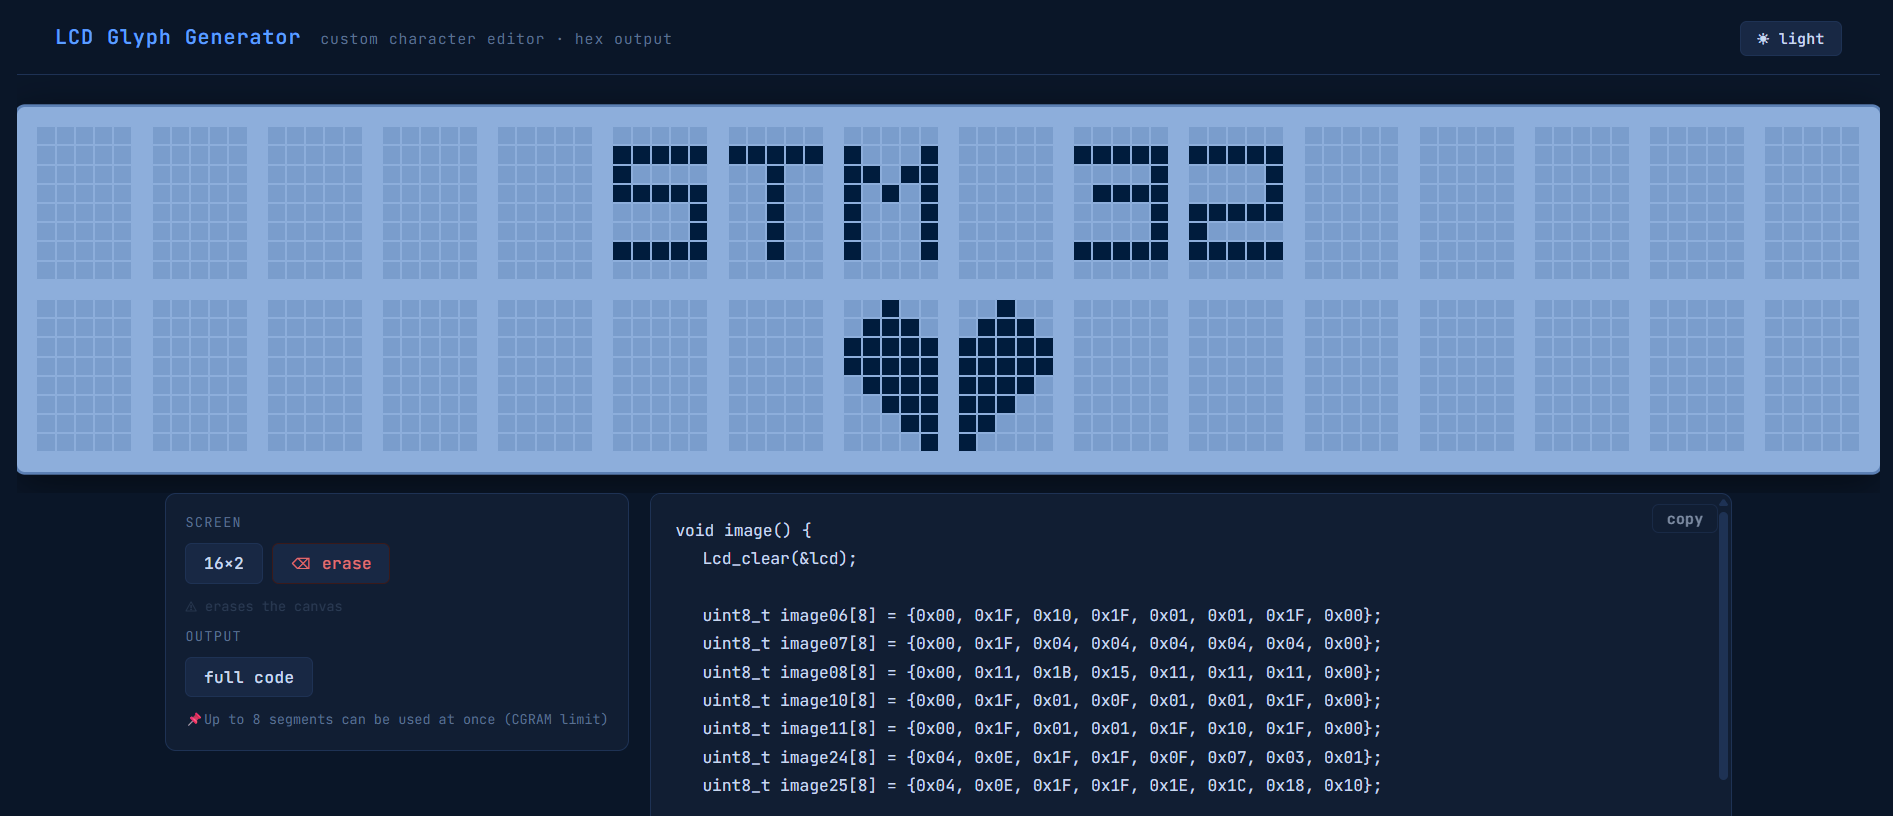
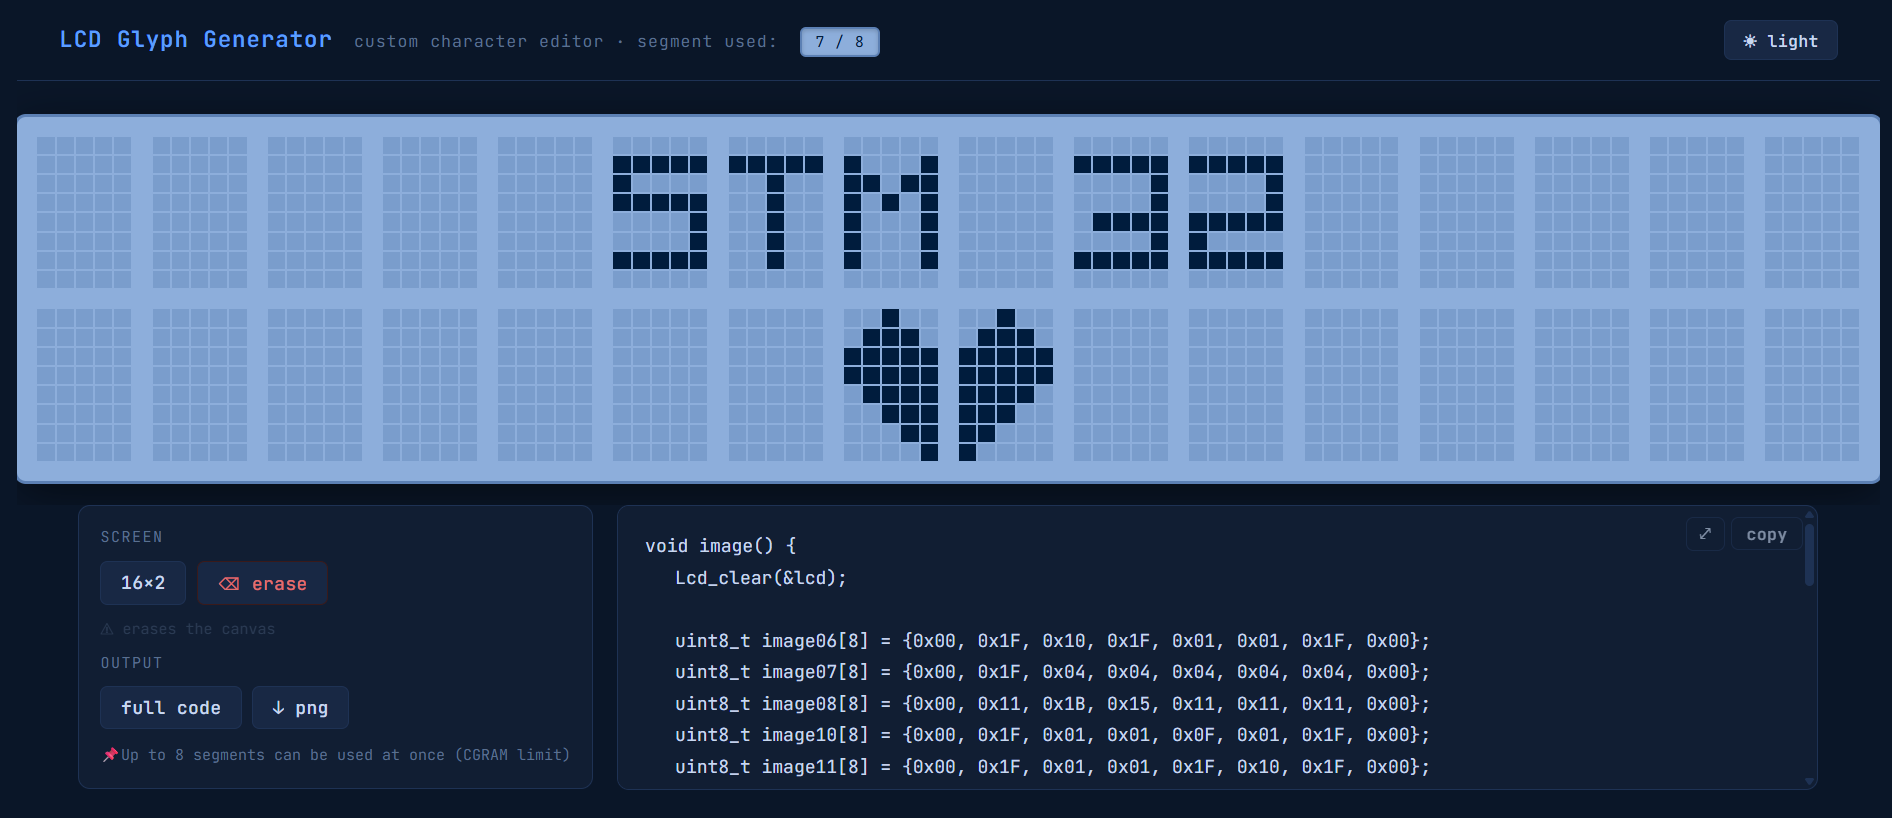
updated readme

diff --git a/README.md b/README.md
@@ -1,27 +1,37 @@
 # nucleoscreen
-### A LCD Glyph Generator
+### LCD Glyph Generator
 
-pixel editor for creating custom characters on HD44780-based LCD displays with nucleo boards. It gives ready-to-use C code with hex values.
+A pixel editor for creating custom characters on **HD44780-based LCDs** using Nucleo boards.  
+Generates ready-to-use **C code with hex values** for STM32 projects.
 
-<p style="text-align: center;">
-  <img src="demo_light.png" width="48%" alt="demo">
-  <img src="demo_dark.png" width="48%" alt="demo">
+<p align="center">
+  <img src="demo_light.png" width="48%" alt="Light theme demo">
+  <img src="demo_dark.png" width="48%" alt="Dark theme demo">
 </p>
+
+## Features
+
+- Pixel-based editor for HD44780 based LCD 
+- **Live CGRAM segment counter** (0–8 limit)
+- Generate **full C code** or **function-only** output
+- **One-click copy** of generated code
+- **Expandable code view** for better readability
+- **Export or download canvas as PNG**
+- Light / Dark modern theme toggle
+- Undo (ctrl+z) / Redo (ctrl+y) / Full erase options
 
 ## How to use
 
-1. **Click pixels** on any character cell to toggle them on/off
-2. **Drag** across pixels to paint multiple at once
-3. Up to **8 segments** can be used or active at a time (hardware CGRAM limit)
-4. Switch between **function only** or **full code** output using the button in the sidebar
-5. Hit **copy** in the top-right of the code panel to copy the generated C code
-6. You can change the **appearance** using the top-right corner button
+1. Click or drag to draw pixels
+2. Watch the segment counter to stay within CGRAM limits
+3. Copy or expand the generated C code
+4. Optionally export the design as a PNG
 
 ## Live demo
 
-👉 [Try it here](https://samiul-islam-siam.github.io/nucleoscreen/)
+👉 https://samiul-islam-siam.github.io/nucleoscreen/
 
 ## Library
 
-This tool generates code for the HD44780 LCD library (e.g. LCD 1602A):  
-[🔗 lcd lib for stm32](https://github.com/samiul-islam-siam/STM32-Lab/tree/Experiments/LCD%201602A%20BareMetal)
+Generated code would be used directly using this library:  
+[LCD 1602 Library (Bare-Metal)](https://github.com/samiul-islam-siam/STM32-Lab/tree/Experiments/LCD%201602A%20BareMetal)
